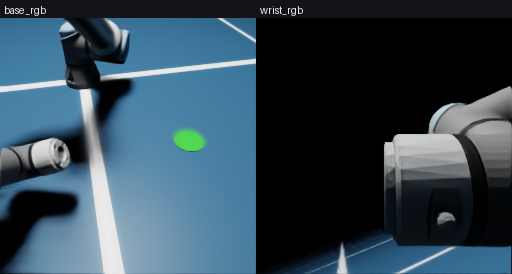
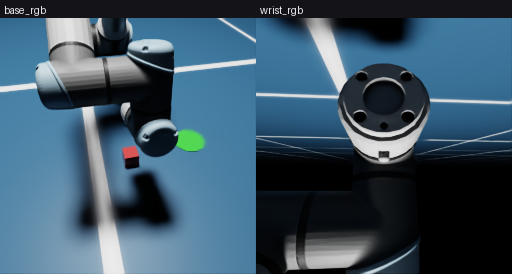
Fix a missing verticalAperture that was distorting every rendered frame
check_cameras.py --sweep_wrist ran for real on live Isaac Sim for the first
time and picked (90, 0, 0) by a 688-vs-679 margin the script itself flagged
as not a clear winner. The contact sheets showed why: wrist_rolls_at_grasp
(the same winning direction, rotated only about its own viewing axis)
showed the cube at roll 0 and at none of rolls 90/180/270. A pure in-plane
rotation cannot make real content vanish, only move it, so the only
explanation left was a non-square field of view trading horizontal reach
for vertical as it turns.

_setup_cameras confirmed it: both the base and wrist cameras call
CreateHorizontalApertureAttr but never CreateVerticalApertureAttr, so
vertical sat at USD's schema default (15.2908mm) regardless of the
horizontal value computed from *_HORIZONTAL_FOV_DEG -- on the wrist
camera's 24mm focal length that's a real vertical FOV near 35 degrees
against the intended 70 horizontal, rendered onto a square 256x256 image
the whole project has been treating as square-FOV. Every frame either
camera has ever rendered was vertically compressed relative to horizontal
by that ratio.

Fixed by setting each camera's vertical aperture equal to its horizontal
one (correct for this project's square CAMERA_RESOLUTION). Re-running the
sweep after the fix picked a different direction, (0, 90, 0) at lateral
0.08m, by a clearly wider 1532-vs-1011 margin, with rolls that now agree
with each other -- pinned as the new WRIST_CAMERA_FLANGE_ROT_EULER default.

diff --git a/isaac/pick_place_scene.py b/isaac/pick_place_scene.py
@@ -88,7 +88,7 @@ MAX_DARK_FRACTION = 0.30
 # WRIST_CAMERA_LATERAL_M must clear the wrist link's radius. Aiming at
 # WRIST_CAMERA_FOCUS_M along the tool axis, rather than pointing straight
 # down that axis, keeps the target centred despite the lateral offset.
-WRIST_CAMERA_LATERAL_M = 0.06
+WRIST_CAMERA_LATERAL_M = 0.08
 WRIST_CAMERA_FOCUS_M = 0.12
 # How far BACK along the approach axis the camera sits, i.e. behind the
 # gripper looking forward over it, the way a real eye-in-hand bracket is
@@ -105,11 +105,19 @@ WRIST_CAMERA_HORIZONTAL_FOV_DEG = 70.0
 WRIST_CAMERA_FOCAL_LENGTH_MM = 24.0
 
 # Which way the camera looks, as XYZ Euler degrees taking the FLANGE frame to
-# the tool's approach direction. None means "derive it" from the measured
-# flange->tool0 offset -- a derivation whose upstream input
-# (rmpflow.get_end_effector_pose) has never been verified, which is why
-# check_cameras.py --sweep_wrist measures the answer instead.
-WRIST_CAMERA_FLANGE_ROT_EULER = None
+# the tool's approach direction. Settled 2026-09-15 by check_cameras.py
+# --sweep_wrist AFTER fixing the missing verticalAperture in _setup_cameras
+# (see that commit): the first sweep, before that fix, picked (90, 0, 0) by
+# a 688-vs-679 margin the script itself flagged as not a clear winner --
+# and the contact sheets showed why: the same direction's own ROLL images
+# (a pure in-plane rotation, which cannot change what is in frame, only
+# where) showed the cube at roll 0 and nowhere else, which is only possible
+# with a non-square FOV trading horizontal reach for vertical as it turns.
+# With verticalAperture fixed to match, the sweep picked a different
+# direction entirely, by a clearer 1532-vs-1011 margin, and its own rolls
+# now agree with each other (present at 90/180/270, occluded by the
+# gripper itself at roll 0 -- a real occlusion, not a vanishing act).
+WRIST_CAMERA_FLANGE_ROT_EULER = (0.0, 90.0, 0.0)
 BASE_CAMERA_POSITION = (0.9, 0.0, 0.5)
 # What the base camera looks at: between the cube spawn area (CUBE_X_RANGE x
 # CUBE_Y_RANGE at CUBE_Z) and the place target, so both are in frame.
@@ -301,6 +309,22 @@ class PickPlaceScene:
             math.radians(BASE_CAMERA_HORIZONTAL_FOV_DEG) / 2.0)
         base_cam.CreateFocalLengthAttr(BASE_CAMERA_FOCAL_LENGTH_MM)
         base_cam.CreateHorizontalApertureAttr(horizontal_aperture_mm)
+        # CONFIRMED 2026-09-15: verticalAperture was never set here, so it
+        # sat at USD's schema default (15.2908mm) regardless of
+        # horizontalAperture -- for this camera's 24mm focal length that is
+        # a ~35.3deg vertical FOV against the intended 60deg horizontal, on
+        # a SQUARE 256x256 render. Every frame this scene has ever rendered
+        # was vertically compressed relative to horizontal by that ratio;
+        # found chasing why check_cameras.py's wrist sweep showed the cube
+        # vanishing on 3 of 4 in-plane ROLLS of its own winning direction --
+        # a real roll of a genuinely square FOV can only move content
+        # between edges, never make it disappear, so a non-square FOV that
+        # trades horizontal reach for vertical reach as it rotates was the
+        # only remaining explanation. Matching it to horizontalAperture
+        # gives square pixels for this square CAMERA_RESOLUTION -- for a
+        # non-square resolution this would need scaling by
+        # (vertical_px / horizontal_px) instead.
+        base_cam.CreateVerticalApertureAttr(horizontal_aperture_mm)
         # CONFIRMED (2026-09-07, by inspecting an actual collected dataset): a
         # USD camera's default clippingRange is (1.0, 1000000) -- a 1 METRE
         # near plane. The base camera sits ~0.66m from the cube and the wrist
@@ -342,6 +366,13 @@ class PickPlaceScene:
             math.radians(WRIST_CAMERA_HORIZONTAL_FOV_DEG) / 2.0)
         wrist_cam.CreateFocalLengthAttr(WRIST_CAMERA_FOCAL_LENGTH_MM)
         wrist_cam.CreateHorizontalApertureAttr(wrist_aperture_mm)
+        # Same fix, same reason, as the base camera above: unset
+        # verticalAperture defaults to USD's 15.2908mm regardless of this
+        # camera's own 70deg-horizontal aperture, a ~2x FOV mismatch on this
+        # camera's shorter focal length -- worse than the base camera's, and
+        # what actually produced the vanishing-on-roll symptom this was
+        # chased down from.
+        wrist_cam.CreateVerticalApertureAttr(wrist_aperture_mm)
         self.set_wrist_camera_flange_rotation(WRIST_CAMERA_FLANGE_ROT_EULER)
 
         # Render products + annotators last, once both cameras exist. These

diff --git a/README.md b/README.md
@@ -604,6 +604,41 @@ step 6 is what confirms those conventions are the ones OpenVLA reads.
   from the flange origin, well within that link. Direction was never the
   problem. The mount is now `WRIST_CAMERA_STANDOFF_M` along the direction the
   camera looks, and `check_cameras.py` sweeps standoff as well as direction.
+  **Update (2026-09-15): the sweep ran for real on live Isaac Sim, and found
+  a second bug behind it -- both cameras' vertical FOV was never set.** The
+  first live run picked `(90, 0, 0)` at lateral 0.08m, but by a 688-vs-679
+  margin the script itself flagged as not a clear winner, and the contact
+  sheets showed why: `wrist_rolls_at_grasp.png` -- four renders of that same
+  direction, rotated only about its own viewing axis -- showed the cube at
+  roll 0 and at literally none of rolls 90/180/270. A pure in-plane
+  rotation cannot make real content vanish, only move it; the only
+  explanation left was a non-square field of view trading horizontal reach
+  for vertical as it turns. `_setup_cameras` confirmed it: both the base and
+  wrist cameras call `CreateHorizontalApertureAttr` but never
+  `CreateVerticalApertureAttr`, so vertical sat at USD's schema default
+  (15.2908mm) regardless of the horizontal value computed from
+  `*_HORIZONTAL_FOV_DEG` -- on the wrist camera's 24mm focal length that is
+  a real vertical FOV near 35 degrees against the intended 70 horizontal,
+  rendered onto a SQUARE 256x256 image the whole project has been treating
+  as square-FOV. Every frame either camera has ever rendered was vertically
+  compressed relative to horizontal by that ratio, this ADJUST item's own
+  suspicion two sections above having gone unchecked until the roll sweep
+  forced the question. Fixed by setting each camera's vertical aperture
+  equal to its horizontal one (correct for this project's square
+  `CAMERA_RESOLUTION`; a non-square resolution would need the vertical
+  aperture scaled by its own aspect ratio instead). Re-running the sweep
+  after the fix picked a DIFFERENT direction, `(0, 90, 0)` at lateral
+  0.08m, by a clearly wider 1532-vs-1011 margin, and that direction's own
+  rolls now agree with each other (present at 90/180/270, occluded by the
+  gripper itself only at roll 0 -- a real occlusion, not the vanishing act).
+  Pinned as the new default. One preflight run afterward showed
+  `wrist_rgb cube_px=0` at a *different* random grasp, but `base_rgb` for
+  that same frame shows why: tool was 59mm from the cube, at the edge of
+  the convergence warning band, cube visibly still on the table beside the
+  gripper rather than under it -- the grasp-residual tracking issue this
+  file already documents (see "Bring-up order" step 1 and Track B above),
+  not a new camera problem. The wrist mount looks at where a converged
+  grasp puts the cube; it was simply given a grasp that had not converged.
 - **Base camera framing is small, and it is geometry, not occlusion --
   corrected 2026-09-15, this entry previously said the opposite.** The cube
   peaked at 139 of 65,536 px over a whole episode (~1 px at reset, first
@@ -685,11 +720,17 @@ step 6 is what confirms those conventions are the ones OpenVLA reads.
   generate (anything requiring visual feedback mid-motion, not just a fixed
   waypoint sequence).
 - `isaac/pick_place_scene.py`'s `BASE_CAMERA_FOCAL_LENGTH_MM`/aperture
-  setup (for Phase 6's `camera_projection.py` math to be accurate) assumes
-  USD camera focal-length/aperture attributes behave the standard way on
-  your Isaac Sim version -- if detected objects' localization error (printed
-  by `hybrid_pick_place_demo.py`) is consistently large, check the actual
-  rendered FOV against `BASE_CAMERA_HORIZONTAL_FOV_DEG` first.
+  setup (for Phase 6's `camera_projection.py` math to be accurate) **did
+  not** behave the standard way -- confirmed and fixed 2026-09-15, see the
+  wrist-camera entry above: `verticalAperture` was never set on either
+  camera, leaving it at USD's schema default regardless of the horizontal
+  value computed from `*_HORIZONTAL_FOV_DEG`, a real vertical/horizontal FOV
+  mismatch on a nominally-square render. Now set equal to the horizontal
+  aperture on both cameras. If detected objects' localization error (printed
+  by `hybrid_pick_place_demo.py`) is still consistently large on your
+  install, check the actual rendered FOV against `BASE_CAMERA_HORIZONTAL_FOV_DEG`
+  again -- that was the right instinct, just not chased down until a
+  wrist-camera roll sweep forced the question.
 - Phase 6's comparison against the pure-VLA pipeline isn't apples-to-apples
   yet: `pi0_ur5e_pick_place` was only ever fine-tuned on one cube (Phase 1's
   single-object data). A fair comparison needs Phase 1/2 redone with
